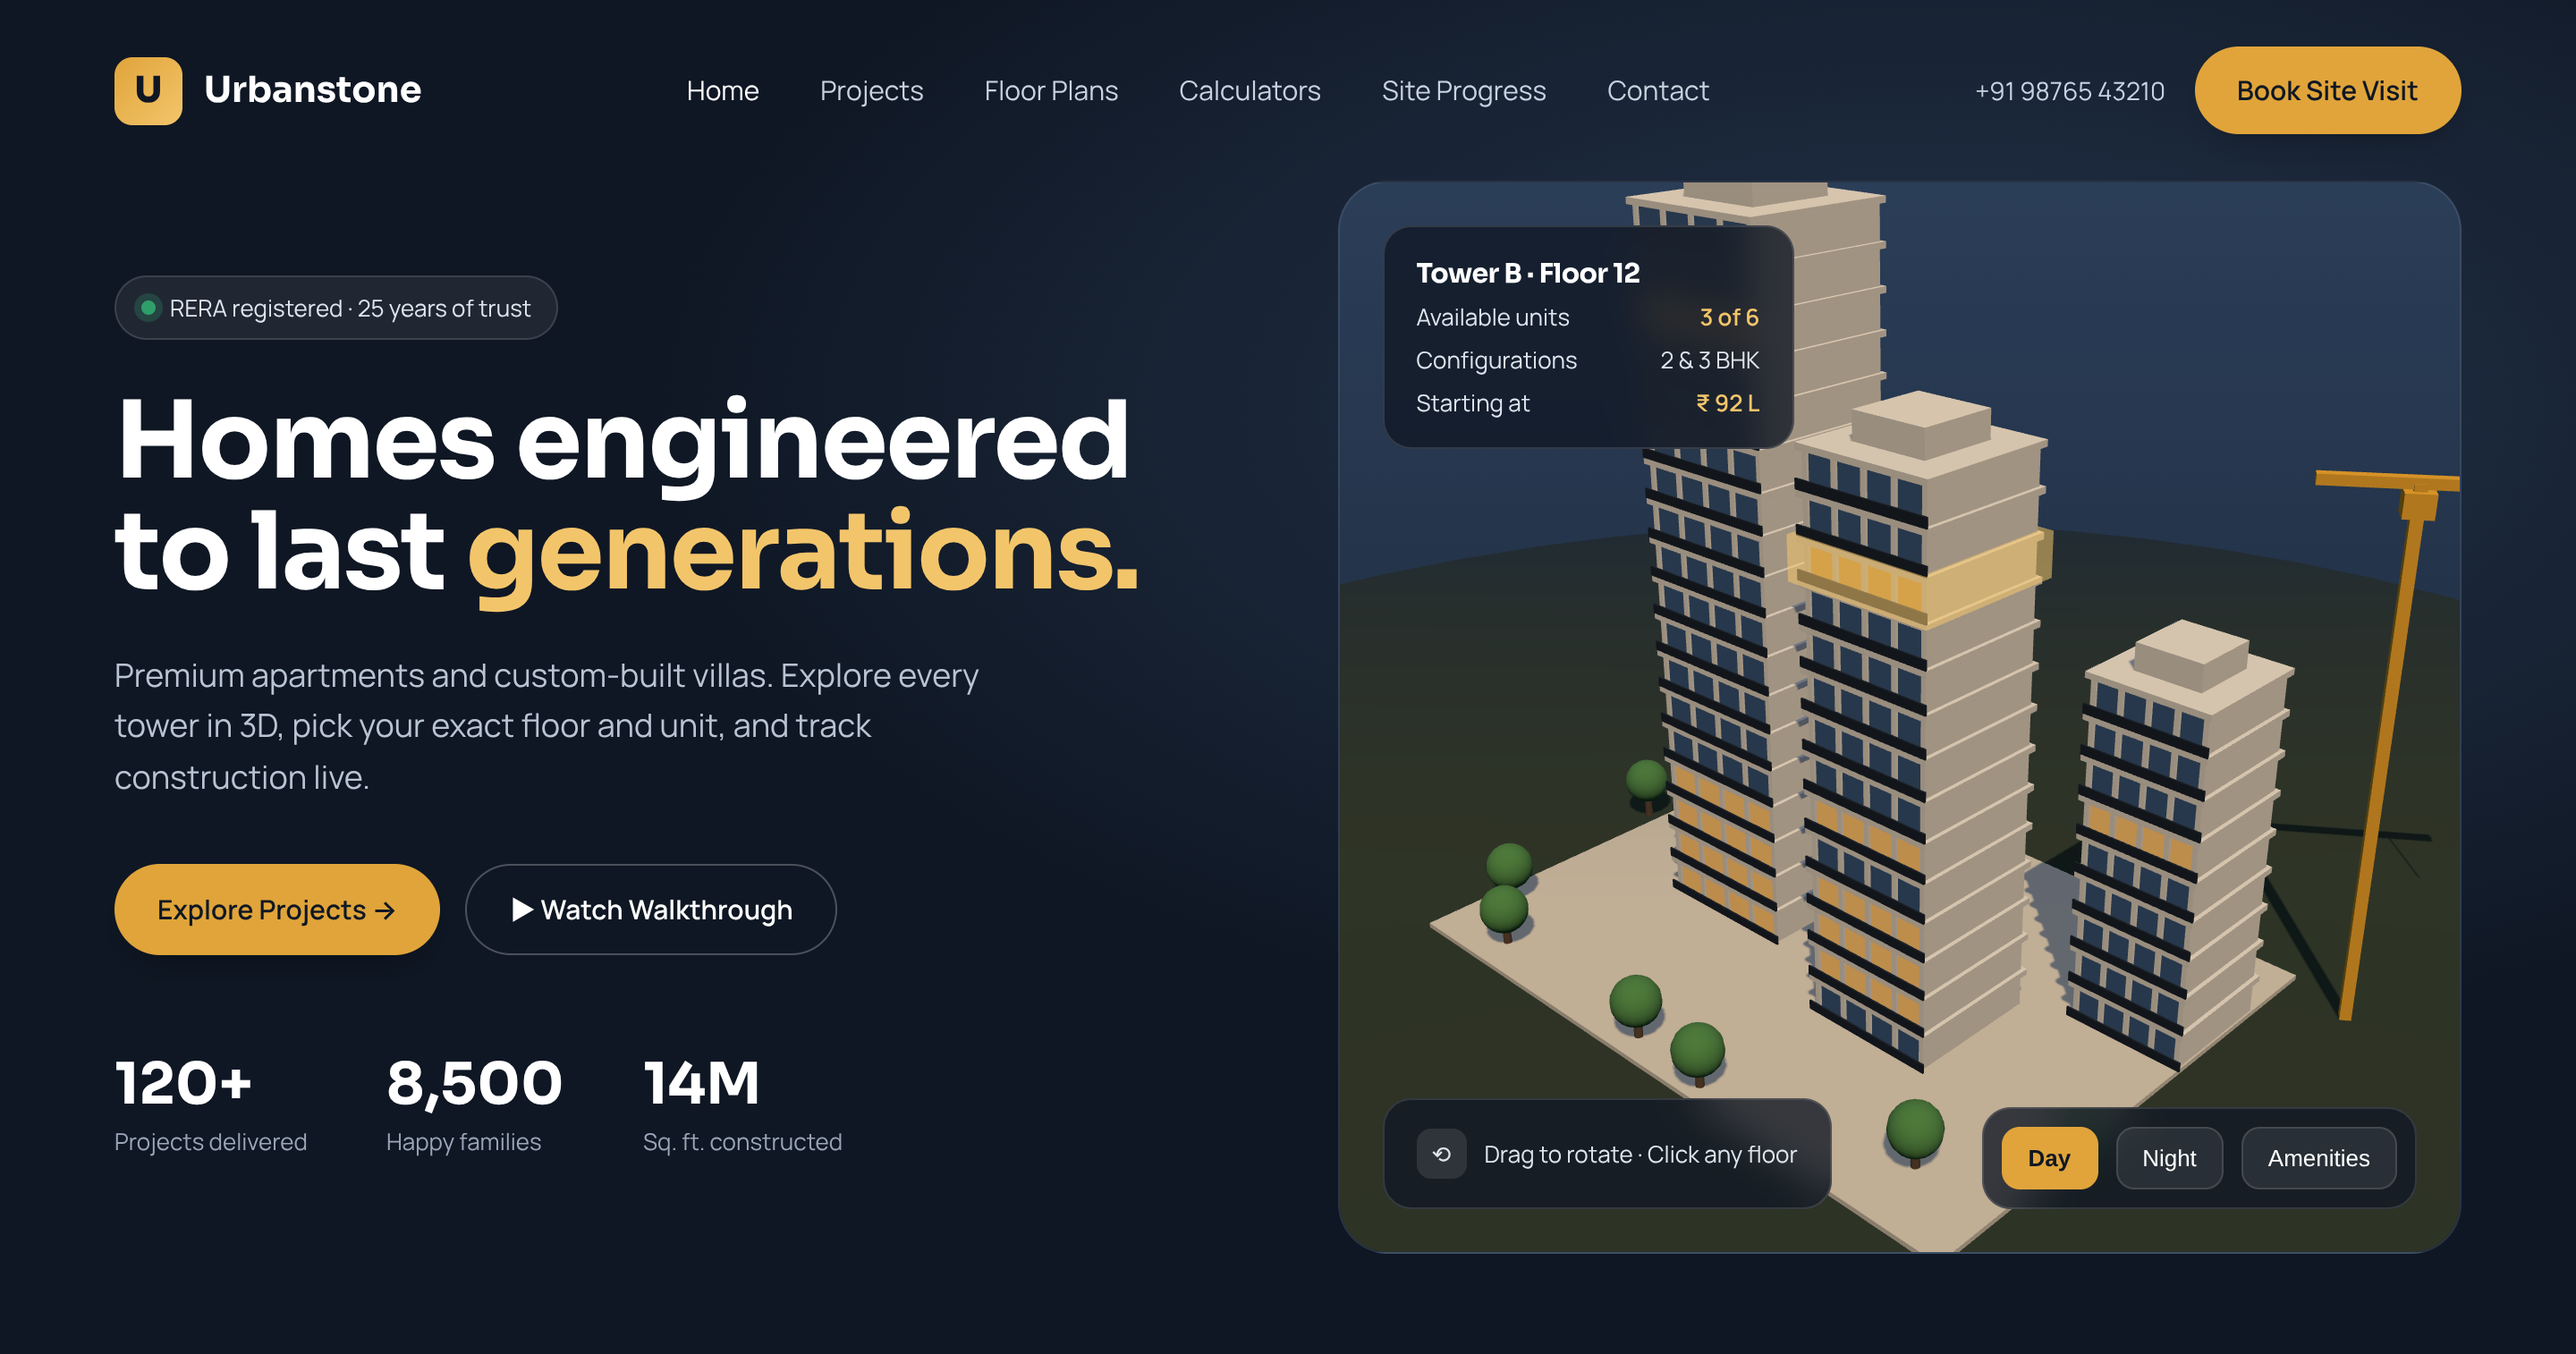
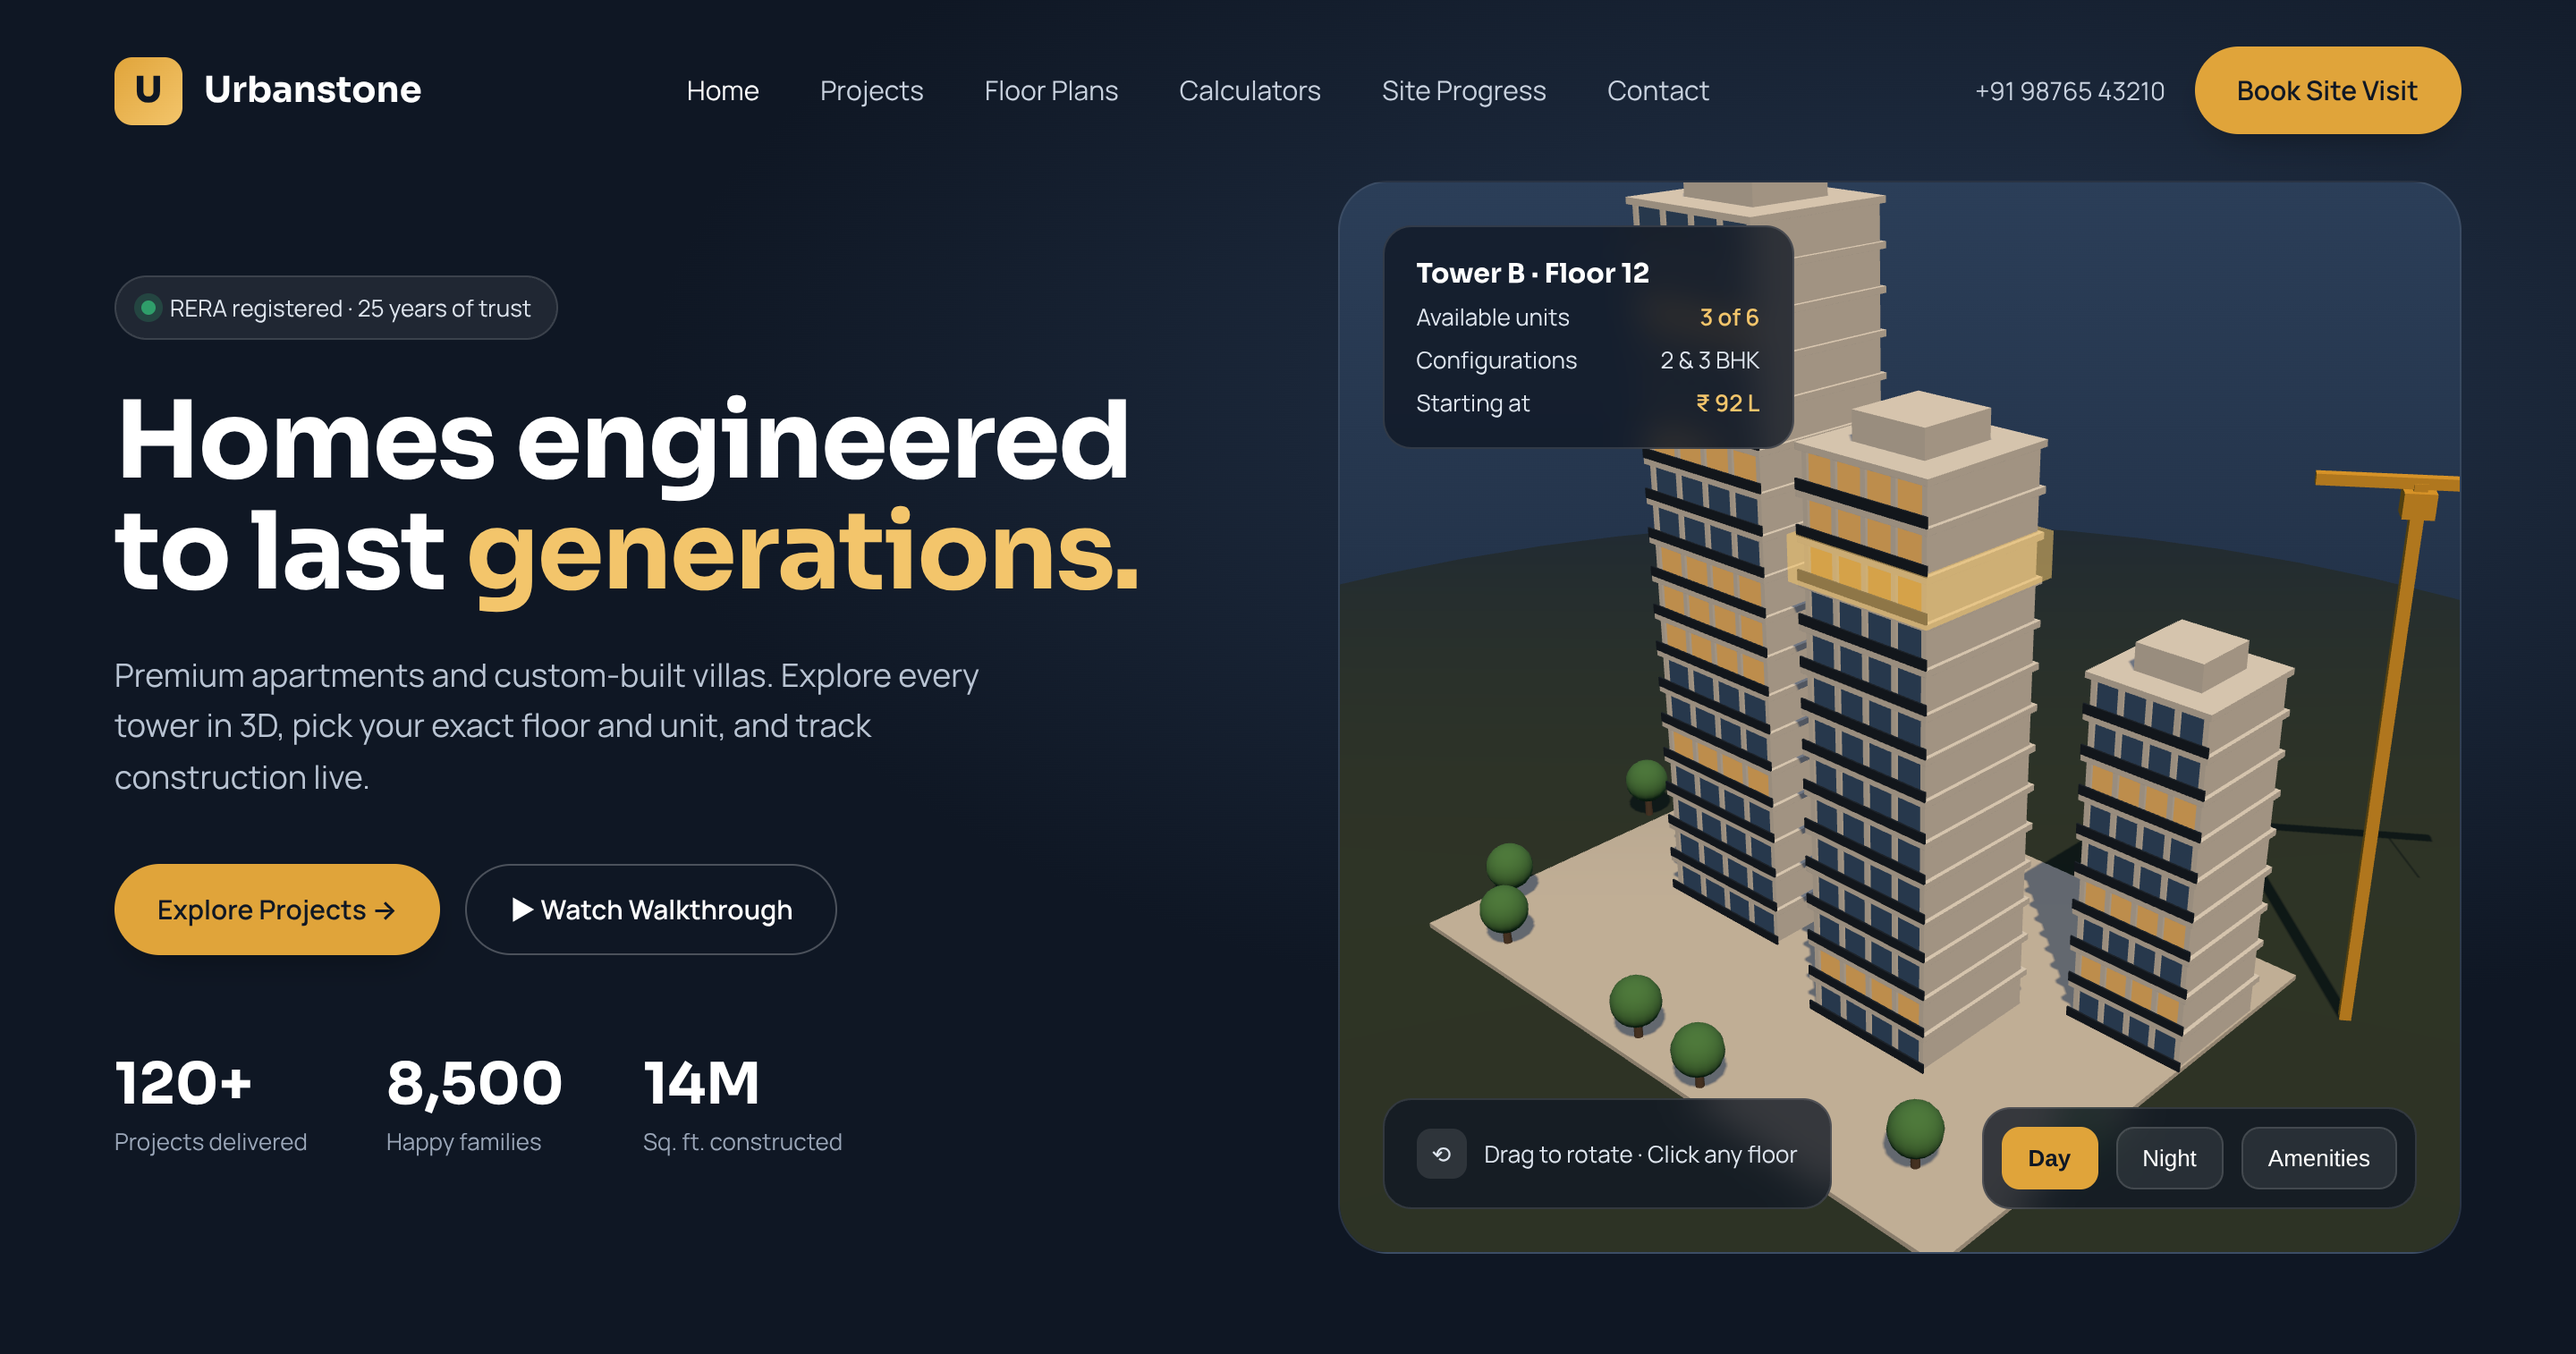
Polish mockup: drop eyebrow labels, fix heading order, neutral background
Claude-Session: https://claude.ai/code/session_01MvSxdL9oHfykSzErot6XfD

diff --git a/mockups/index.html b/mockups/index.html
@@ -38,7 +38,7 @@
     <div class="scene-wrap">
       <canvas id="scene"></canvas>
       <div class="float-card fc-1" id="floorCard">
-        <h4>Tower B · Floor 12</h4>
+        <div class="fc-title">Tower B · Floor 12</div>
         <div class="row"><span>Available units</span><span class="gold">3 of 6</span></div>
         <div class="row"><span>Configurations</span><span>2 & 3 BHK</span></div>
         <div class="row"><span>Starting at</span><span class="gold">₹ 92 L</span></div>
@@ -52,7 +52,7 @@
 <!-- 2. PROJECTS -->
 <section class="section" id="projects">
   <div class="section-head">
-    <div><div class="eyebrow">Our Projects</div><h2>Find the home that fits your life.</h2></div>
+    <div><h2>Find the home that fits your life.</h2></div>
     <p>Filter by status, type and budget. Every project shows live construction progress so buyers always know where things stand.</p>
   </div>
   <div class="toolbar">
@@ -99,7 +99,7 @@
 <!-- 3. UNIT SELECTOR + FLOOR PLAN -->
 <section class="section dark" id="units">
   <div class="section-head">
-    <div><div class="eyebrow">Interactive Unit Selector</div><h2>Pick your exact floor, unit and view.</h2></div>
+    <div><h2>Pick your exact floor, unit and view.</h2></div>
     <p>Live availability for every flat. Click a unit to see its floor plan, carpet area, facing and price — then reserve it in one step.</p>
   </div>
   <div class="selector">
@@ -169,7 +169,7 @@
 <!-- 4. CALCULATORS -->
 <section class="section" id="calc">
   <div class="section-head">
-    <div><div class="eyebrow">Smart Tools</div><h2>Plan your budget before you visit.</h2></div>
+    <div><h2>Plan your budget before you visit.</h2></div>
     <p>A home-loan EMI calculator for apartment buyers and a construction cost estimator for clients building an independent house.</p>
   </div>
   <div class="calc-grid">
@@ -214,18 +214,18 @@
 <!-- 5. CONSTRUCTION PROGRESS -->
 <section class="section" id="progress" style="padding-top:24px">
   <div class="section-head">
-    <div><div class="eyebrow">Construction Tracker</div><h2>Watch your home rise — week by week.</h2></div>
+    <div><h2>Watch your home rise — week by week.</h2></div>
     <p>Milestones, dated site photos and a live camera build trust with buyers and reduce "what's the status?" calls to the sales team.</p>
   </div>
   <div class="prog-grid">
     <div class="timeline">
       <div class="overall"><div><small>Overall</small><b>68%</b></div><div><small>Possession</small><b>Dec 2027</b></div><div><small>Last update</small><b>2 days</b></div></div>
-      <div class="tl-item done"><div class="tl-dot">✓</div><div><h4>Land & approvals</h4><p>RERA, BBMP plan sanction, environment clearance</p></div><span class="when">Jan 2025</span></div>
-      <div class="tl-item done"><div class="tl-dot">✓</div><div><h4>Foundation & basement</h4><p>Raft foundation, 2 basement parking levels</p></div><span class="when">Jun 2025</span></div>
-      <div class="tl-item done"><div class="tl-dot">✓</div><div><h4>Superstructure</h4><p>All 14 slabs cast in Tower B</p></div><span class="when">Aug 2026</span></div>
-      <div class="tl-item now"><div class="tl-dot">4</div><div><h4>Masonry & MEP · in progress</h4><p>Blockwork 80%, plumbing 55%, electrical 40%</p></div><span class="when">Now</span></div>
-      <div class="tl-item next"><div class="tl-dot">5</div><div><h4>Finishing & amenities</h4><p>Flooring, paint, clubhouse, landscaping</p></div><span class="when">Q2 2027</span></div>
-      <div class="tl-item next"><div class="tl-dot">6</div><div><h4>Handover</h4><p>Occupancy certificate & key handover</p></div><span class="when">Dec 2027</span></div>
+      <div class="tl-item done"><div class="tl-dot">✓</div><div><h3>Land & approvals</h3><p>RERA, BBMP plan sanction, environment clearance</p></div><span class="when">Jan 2025</span></div>
+      <div class="tl-item done"><div class="tl-dot">✓</div><div><h3>Foundation & basement</h3><p>Raft foundation, 2 basement parking levels</p></div><span class="when">Jun 2025</span></div>
+      <div class="tl-item done"><div class="tl-dot">✓</div><div><h3>Superstructure</h3><p>All 14 slabs cast in Tower B</p></div><span class="when">Aug 2026</span></div>
+      <div class="tl-item now"><div class="tl-dot">4</div><div><h3>Masonry & MEP · in progress</h3><p>Blockwork 80%, plumbing 55%, electrical 40%</p></div><span class="when">Now</span></div>
+      <div class="tl-item next"><div class="tl-dot">5</div><div><h3>Finishing & amenities</h3><p>Flooring, paint, clubhouse, landscaping</p></div><span class="when">Q2 2027</span></div>
+      <div class="tl-item next"><div class="tl-dot">6</div><div><h3>Handover</h3><p>Occupancy certificate & key handover</p></div><span class="when">Dec 2027</span></div>
     </div>
     <div class="media-col">
       <div class="live" data-art='{"towers":3,"crane":true,"sky":["#d9c7a8","#8fa9c4"],"seed":5}'>
@@ -245,7 +245,7 @@
 <!-- 6. TESTIMONIALS + SITE VISIT BOOKING -->
 <section class="section dark" id="contact" style="position:relative">
   <div class="section-head">
-    <div><div class="eyebrow">Book a Site Visit</div><h2>See it in person. We'll pick you up.</h2></div>
+    <div><h2>See it in person. We'll pick you up.</h2></div>
     <p>Free cab pickup for site visits. Choose a slot and a relationship manager will confirm on WhatsApp within 15 minutes.</p>
   </div>
   <div class="contact-grid">
@@ -290,7 +290,7 @@
   canvas.addEventListener("floorselect", (e) => {
     if (!e.detail) return;
     const avail = (e.detail.level * 7) % 6 || 1;
-    document.querySelector("#floorCard h4").textContent = `${e.detail.tower} · Floor ${e.detail.level}`;
+    document.querySelector("#floorCard .fc-title").textContent = `${e.detail.tower} · Floor ${e.detail.level}`;
     document.querySelector("#floorCard .gold").textContent = `${avail} of 6`;
   });
 

diff --git a/mockups/styles.css b/mockups/styles.css
@@ -3,9 +3,9 @@
   --ink: #0f1724;
   --ink-2: #1b2636;
   --ink-3: #2a3749;
-  --paper: #f6f3ee;
+  --paper: #f2f3f5;
   --card: #ffffff;
-  --line: #e4ddd2;
+  --line: #dfe2e7;
   --muted: #5f6673;
   --muted-dark: #9aa6b8;
   --gold: #e0a43a;
@@ -66,7 +66,7 @@ h1, h2, h3, h4 { font-family: "Sora", "Manrope", sans-serif; letter-spacing: -0.
 .scene-wrap { position: relative; height: 600px; border-radius: 28px; overflow: hidden; background: linear-gradient(180deg, #2b3e58 0%, #172233 100%); border: 1px solid rgba(255,255,255,.08); }
 #scene { width: 100%; height: 100%; display: block; }
 .float-card { position: absolute; background: rgba(15,23,36,.78); backdrop-filter: blur(10px); border: 1px solid rgba(255,255,255,.12); border-radius: 16px; padding: 16px 18px; font-size: 13px; color: #dfe6ef; }
-.float-card h4 { font-size: 15px; color: #fff; margin-bottom: 6px; }
+.float-card .fc-title { font-family: "Sora"; font-weight: 700; font-size: 15px; color: #fff; margin-bottom: 6px; }
 .float-card .row { display: flex; justify-content: space-between; gap: 22px; margin-top: 6px; }
 .float-card .gold { color: var(--gold-2); font-weight: 600; }
 .fc-1 { top: 24px; left: 24px; width: 230px; }
@@ -98,7 +98,7 @@ h1, h2, h3, h4 { font-family: "Sora", "Manrope", sans-serif; letter-spacing: -0.
 .spec { font-size: 12px; padding: 6px 10px; border-radius: 8px; background: var(--paper); color: var(--ink-3); font-weight: 500; }
 .progress-label { display: flex; justify-content: space-between; font-size: 13px; margin-bottom: 8px; color: var(--muted); }
 .progress-label b { color: var(--ink); }
-.bar { height: 8px; border-radius: 99px; background: #eee7dc; overflow: hidden; margin-bottom: 18px; }
+.bar { height: 8px; border-radius: 99px; background: #e3e6ea; overflow: hidden; margin-bottom: 18px; }
 .bar i { display: block; height: 100%; background: linear-gradient(90deg, var(--gold), var(--gold-2)); border-radius: 99px; }
 .card-foot { display: flex; justify-content: space-between; align-items: center; border-top: 1px solid var(--line); padding-top: 16px; }
 .price small { display: block; font-size: 12px; color: var(--muted); }
@@ -124,7 +124,7 @@ h1, h2, h3, h4 { font-family: "Sora", "Manrope", sans-serif; letter-spacing: -0.
 .u-h { background: rgba(240,173,78,.18); color: var(--amber); border: 1px solid rgba(240,173,78,.45); }
 .u-sel { background: var(--gold); color: var(--ink); outline: 2px solid #fff; outline-offset: 1px; }
 .plan-panel { display: grid; grid-template-columns: 1.4fr 1fr; gap: 24px; }
-.plan-svg { color: var(--ink); background: #fbf9f5; border-radius: 14px; padding: 16px; }
+.plan-svg { color: var(--ink); background: #fafafa; border-radius: 14px; padding: 16px; }
 .plan-svg svg { width: 100%; display: block; }
 .unit-info h3 { font-size: 26px; margin-bottom: 4px; }
 .unit-info .sub { color: var(--muted-dark); font-size: 14px; margin-bottom: 20px; }
@@ -149,7 +149,7 @@ h1, h2, h3, h4 { font-family: "Sora", "Manrope", sans-serif; letter-spacing: -0.
 .field { margin-bottom: 24px; }
 .field-top { display: flex; justify-content: space-between; font-size: 14px; margin-bottom: 12px; }
 .field-top b { font-family: "Sora"; background: var(--paper); padding: 4px 10px; border-radius: 8px; }
-input[type=range] { -webkit-appearance: none; width: 100%; height: 6px; border-radius: 99px; background: linear-gradient(90deg, var(--gold) var(--p, 50%), #eee7dc var(--p, 50%)); }
+input[type=range] { -webkit-appearance: none; width: 100%; height: 6px; border-radius: 99px; background: linear-gradient(90deg, var(--gold) var(--p, 50%), #e3e6ea var(--p, 50%)); }
 input[type=range]::-webkit-slider-thumb { -webkit-appearance: none; width: 22px; height: 22px; border-radius: 50%; background: #fff; border: 5px solid var(--gold); box-shadow: 0 4px 10px rgba(0,0,0,.15); }
 .range-ends { display: flex; justify-content: space-between; font-size: 12px; color: var(--muted); margin-top: 8px; }
 .donut-wrap { text-align: center; }
@@ -161,7 +161,7 @@ input[type=range]::-webkit-slider-thumb { -webkit-appearance: none; width: 22px;
 .tier { border: 1px solid var(--line); border-radius: 12px; padding: 14px; font-size: 13px; }
 .tier b { display: block; font-size: 15px; margin-bottom: 4px; }
 .tier span { color: var(--muted); }
-.tier.on { border: 2px solid var(--gold); background: #fff8ec; }
+.tier.on { border: 2px solid var(--gold); background: #fdf6e9; }
 .estimate { background: var(--ink); color: #fff; border-radius: 14px; padding: 20px; display: flex; justify-content: space-between; align-items: center; }
 .estimate small { color: var(--muted-dark); font-size: 13px; display: block; margin-bottom: 4px; }
 .estimate b { font-family: "Sora"; font-size: 28px; color: var(--gold-2); }
@@ -180,7 +180,7 @@ input[type=range]::-webkit-slider-thumb { -webkit-appearance: none; width: 22px;
 .done .tl-dot { background: var(--green); color: #fff; }
 .now .tl-dot { background: var(--gold); color: var(--ink); box-shadow: 0 0 0 6px rgba(224,164,58,.2); }
 .next .tl-dot { background: #fff; border: 2px solid var(--line); color: var(--muted); }
-.tl-item h4 { font-size: 15px; margin-bottom: 3px; }
+.tl-item h3 { font-size: 15px; margin-bottom: 3px; }
 .tl-item p { font-size: 13px; color: var(--muted); }
 .tl-item .when { font-size: 12px; color: var(--muted); font-weight: 600; }
 .media-col { display: grid; gap: 20px; align-content: start; }

diff --git a/mockups/mobile.html b/mockups/mobile.html
@@ -19,7 +19,7 @@
     <p class="lead">Explore every tower in 3D, pick your exact unit and track construction live.</p>
     <div class="scene-wrap"><canvas id="scene"></canvas>
       <div class="float-card fc-1" style="width:auto;top:14px;left:14px;padding:10px 12px">
-        <h4 style="font-size:13px">Tower B · Floor 12</h4><div class="row" style="margin:0"><span>Available</span><span class="gold">3 of 6</span></div>
+        <div class="fc-title" style="font-size:13px">Tower B · Floor 12</div><div class="row" style="margin:0"><span>Available</span><span class="gold">3 of 6</span></div>
       </div>
     </div>
     <div class="hero-ctas"><a class="btn btn-gold">Explore Projects →</a><a class="btn btn-ghost">▶ Watch Walkthrough</a></div>
